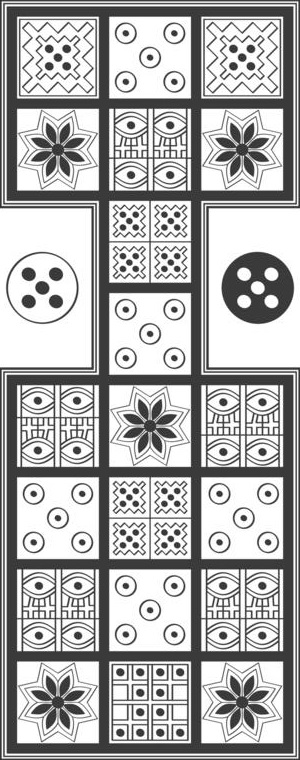
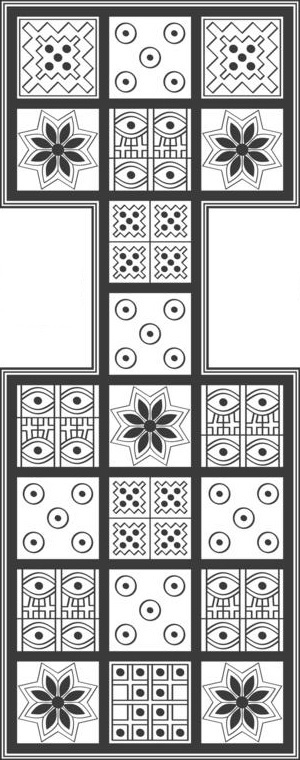
Added button-like pawns

Changed region(s): [[0.72, 0.3329, 0.99, 0.4237], [0.03, 0.3329, 0.27, 0.4237], [0.0, 0.3632, 0.03, 0.3934]]

diff --git a/src/main/java/gameofur/GameOfUr.java b/src/main/java/gameofur/GameOfUr.java
@@ -1,18 +1,26 @@
 package gameofur;
 
 import javafx.application.Application;
-import javafx.scene.Group;
+import javafx.event.ActionEvent;
+import javafx.event.EventHandler;
+import javafx.geometry.Insets;
 import javafx.scene.Scene;
+import javafx.scene.control.Label;
 import javafx.scene.image.Image;
+import javafx.scene.image.ImageView;
 import javafx.scene.layout.*;
 import javafx.scene.paint.Color;
-import javafx.scene.shape.Rectangle;
 import javafx.stage.Stage;
+import javafx.scene.control.Button;
+
+
 
 public class GameOfUr extends Application {
 
-    private Image imageback = new Image("file:src/main/resources/UrBoard.jpg");
-
+    private final Image imageback = new Image("file:src/main/resources/UrBoard.jpg");
+    private final Image whitePawn = new Image("file:src/main/resources/WhitePawnT.png");
+    private final Image blackPawn = new Image("file:src/main/resources/BlackPawnT.png");
+    private final Label testLabel = new Label("Test");
 
     public static void main(String[] args) {
         launch(args);
@@ -27,7 +35,41 @@ public class GameOfUr extends Application {
 
 
         GridPane grid = new GridPane();
+        grid.setPadding(new Insets(11.5, 12.5, 13.5, 14.5));
+        grid.setGridLinesVisible(true);
+
+
         grid.setBackground(background);
+
+        EventHandler<ActionEvent> event1 = new EventHandler<ActionEvent>() {
+            public void handle(ActionEvent e)
+            {
+                testLabel.setText(" white button selected ");
+            }
+        };
+        EventHandler<ActionEvent> event2 = new EventHandler<ActionEvent>() {
+            public void handle(ActionEvent e)
+            {
+                testLabel.setText(" black button selected ");
+            }
+        };
+
+        grid.add(testLabel,1,1,100,100);
+
+        //white button
+        ImageView iw = new ImageView(whitePawn);
+        Button whiteButton = new Button("",iw);
+        whiteButton.setStyle("-fx-background-color: transparent;");
+        whiteButton.setOnAction(event1);
+        grid.add(whiteButton,3,3);
+
+        //black button
+        ImageView ib = new ImageView(blackPawn);
+        Button blackButton = new Button("",ib);
+        blackButton.setStyle("-fx-background-color: transparent;");
+        blackButton.setOnAction(event2);
+        grid.add(blackButton,5,5);
+
 
         Scene scene = new Scene(grid, 500, 760, Color.WHITE);
 
